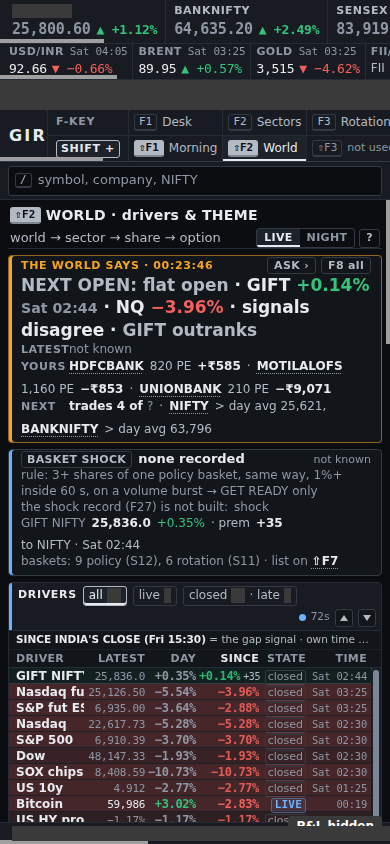
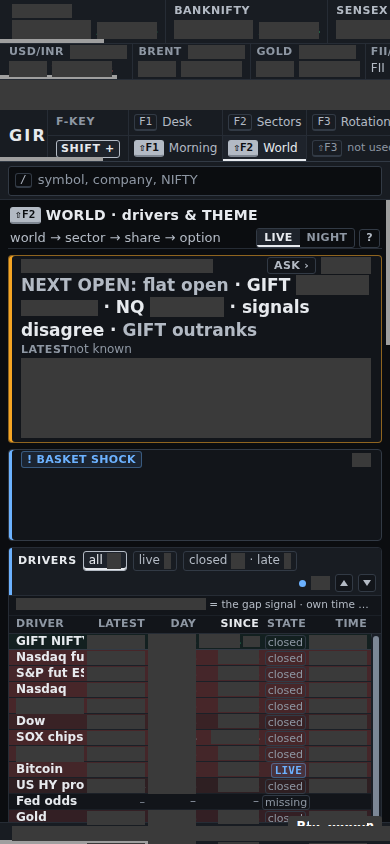
monday: 00:34 Monday world-feeds 07:00 check live; Yahoo/Nasdaq switch refused by permissions -> WAITING FOR TRADER

diff --git a/intraday_patches/monday/STATUS.md b/intraday_patches/monday/STATUS.md
@@ -2,7 +2,7 @@
 
 One row per checklist item (MONDAY_READY.md). Proof files are in this folder. An item without proof is NOT DONE.
 
-Last update: 00:29 IST
+Last update: 00:34 IST
 
 | item | status | note | proof | time |
 |---|---|---|---|---|
@@ -71,7 +71,8 @@ Last update: 00:29 IST
 ## WAITING FOR TRADER (approve in the morning; overnight rule: steps needing approval are skipped and listed here, all other work carries on)
 - 00:04: UNMASKED SCREENSHOTS IN GIT HISTORY. The reviewer removed F_newsfilter_shots / F_sort_shots / F_search_shots from the branch tip (00:20), but the earlier commits still hold them (header P&L strip, and the News page 'YOUR 3 TRADES' box with your rupee P&L). Removing them from history needs a history rewrite of the branch (force push) - your yes needed, as the desk said. Recommended: yes, rewrite only intraday_patches/monday/F_*_shots from history.
 - 00:28: NIFTY TREND-DAY LINE EXPIRY: BANKNIFTY lines say Dec ATM CE / PE (your order); NIFTY lines use the NEXT WEEKLY ATM (the index desk's risk rule, index options next weekly 1 Dec). Keep weekly for NIFTY, or December for both?
-ANSWERED (desk 00:30): Yahoo chart API + Nasdaq API -> SWITCH the replacements live now, old readers parked one week - switching (00:29). Unmasked shots in git history: still waiting (repo private, or a history clean). ANSWERED (desk 22:35): RBI lines stay LIVE on Telegram (rule 8) · Friday / weekend slow mode only after the 19:45 brief - building · F&O-company items never hidden, non-market ones in a folded "company - minor" lane under that share - building · GitHub token -> credential helper after the Sunday rotation - will do then.
+- 00:34: LIVE SWITCH OFF YAHOO'S CHART API + NASDAQ'S API (the desk's 00:30 order) WAS REFUSED BY THIS SESSION'S PERMISSION SYSTEM (it blocks changing live alert feeds overnight) - NOTHING CHANGED; the old readers still run. Ready to apply in minutes with your approval: shadow-proved replacements (Kraken crypto, US Treasury 2-year - the Yahoo 2-year gauge has been dead since ~13 Oct, allowed finance.yahoo.com pages for closes / money map / world quotes / peers' dates), the full list of code paths that read the two hosts (p_gauges, p_uswrap, p_macro, analyst/shock.py replay, and ALSO the old intraday/morning.py cues job - runs Mon 07:20, reads Yahoo's chart API with a browser name and falls back to stooq, whose robots.txt also says no), and the data keys that must not change (NO_DISGUISE_REPLACEMENTS.md, section '22 Nov 00:33'). Micron results date: Nasdaq 16 Dec vs Yahoo 17 Dec after the close (Micron's own site refuses the declared reader) - both shown. Say 'switch' (and whether morning.py goes in the same switch).
+ANSWERED (desk 00:30): Yahoo chart API + Nasdaq API -> SWITCH the replacements live now, old readers parked one week - REFUSED by the permission system, see the item above (00:29). Unmasked shots in git history: still waiting (repo private, or a history clean). ANSWERED (desk 22:35): RBI lines stay LIVE on Telegram (rule 8) · Friday / weekend slow mode only after the 19:45 brief - building · F&O-company items never hidden, non-market ones in a folded "company - minor" lane under that share - building · GitHub token -> credential helper after the Sunday rotation - will do then.
 
 
 ## Notes for the desk
@@ -1062,3 +1063,4 @@ ANSWERED (desk 00:30): Yahoo chart API + Nasdaq API -> SWITCH the replacements l
 - 00:24 (server clock) - NO DISGUISE: Supreme Court cause lists now read with GIR's declared name (the 403 seen at 23:2x did not repeat; byte-identical files) - nothing lost. Replacements for Yahoo's chart API and Nasdaq's API built and shadow-proved (NO_DISGUISE_REPLACEMENTS.md; nothing live switched) - choice under WAITING FOR TRADER, incl. the finding that the US 2-year gauge has been dead since ~13 Oct. NSE (11 endpoints) and BSE (7) all answered the declared name on Saturday night (one request each, 6 s apart) - to be re-checked once in market hours before any switch.
 - 00:24 (server clock) - DESK 00:35 LIVE TREND-DAY LINE DONE (live in gir-v2desk since 00:17; also wired into the rehearsal tool, so the dress rehearsal runs it): after 10:00 (to the index desk's last entry 14:30 / 13:30 Monday), index >= 0.8% from its day low (CE) / high (PE), futures on the right side of their VWAP, heavyweights met (4 of 5 banks / 6 of 8 NIFTY) -> one block 'BANKNIFTY TREND DAY · CE SIDE' with 7 short facts (move from low, banks above VWAP, cause, READY - your call, Dec ATM CE, stop futures VWAP, Grade B - not proven), max 2 a day per index, WOULD SEND until the ring test. FRI 20 NOV REPLAY: BANKNIFTY CE at 10:00 (+2.22% index to 15:10, VWAP stop never hit) and NIFTY CE at 10:38 (+0.99%). Scored at 15:45 + its own section in the Friday week-1 scorecard. TREND-DAY STUDY (TREND_DAY_STUDY.md, $0): 12 rules x 4 check times, hold to 15:10 with trailing exits, tuning Dec 2023-Dec 2025 vs unseen 2026, random baseline, option proxy with costs, Holm over 92 tests: NOT PROVEN - best unseen rule (opening-range break + rising VWAP + breadth, NIFTY PE) n 48, hit 44% vs 37% random, option +9.6% a trade vs +0.1%, fails the lift bound and Holm; the live BANKNIFTY CE rule unseen n 48, hit 35% vs 35% random. So the line stays grade B ('your call'), as the desk ordered. Fri 20 Nov at 10:00: +0.97% from the low, 5 of 5 banks above VWAP - the live rule, gap-down reclaim, opening-range break, PVT BANK and RBI rules all fired. Note: NIFTY lines use the next weekly ATM (the index desk's risk rule), not December - say if December is wanted for NIFTY too.
 - 00:29 (server clock) - DESK 00:30 / 00:35 / 00:25 / 00:20 read. BUILDING NOW beside the 01:15 fixes (separate builders, so the dress rehearsal is not delayed): (1) 00:30 - Yahoo chart API + Nasdaq API replacements SWITCHED LIVE now (Kraken crypto, US Treasury 2-year, allowed finance.yahoo.com pages for closes / money map / world quotes / peers' dates), old readers parked behind a flag until Sun 29 Nov; afterwards nothing fetches those two hosts. (2) 00:35 BLUESTARCO warning chips on the share page + desk input (Telegram only for held positions and the day's sheet names): OPENING TRAP (gap >= 2% after a >= 5% day), VWAP lost / reclaimed with the move's RVOL (a low-volume cross is never an entry), LOW-VOLUME DRIFT (30-min RVOL < 0.7, range shrinking - time decay warning), FAILED BREAK; each tested on the 3-year minute store (labelled 'information' until it passes); the chart note 'session VWAP resets at 09:15'. (3) 00:25 NAV: Shift+F3 = 'Money map' (the global money map already built) or the empty slot hidden; 'F5 off / no reload' only in Help. (4) 00:20 MONDAY CHECK: COMEX gold / silver / copper, NYMEX crude / gas, US futures and the dollar must show LIVE from Mon 04:30 IST; automatic check at 07:00 every trading day -> P1 with the feed named if any is still 'closed' / stale (MCX from 09:00).
+- 00:34 (server clock) - DESK 00:20 MONDAY CHECK DONE: gir-reopencheck.timer (Mon-Fri 07:00:30 IST, NSE holidays skipped - first run Mon 23 Nov 07:00:30): COMEX gold / silver / copper, NYMEX natural gas, Brent, NQ / ES futures and the dollar index must be LIVE and <= 20 min old in the World page's own rows (drivers_now.json; the whole file stale / missing also flagged) -> else ONE P1 a day naming each row, its state / time and its feed (ntfy + System topic through the send gate) + a status.json problem for the day; weekend 'closed' stays correct; MCX (09:00) not in this check; WTI has no row / source. 6 tests (no real send), analyst suite 416, timer in postreboot.sh. NOT DONE: the 00:30 live switch off Yahoo's chart API / Nasdaq's API - refused by this session's permission system, nothing changed, listed under WAITING FOR TRADER with everything prepared.

diff --git a/intraday_patches/monday/NO_DISGUISE_REPLACEMENTS.md b/intraday_patches/monday/NO_DISGUISE_REPLACEMENTS.md
@@ -197,3 +197,23 @@ switching** (NSE / BSE bot rules may differ under load, and BSE blocked fast pol
 - NEW `v2/sources/p_shadow.py`, `v2/sources/shadow_run.py`, `v2/sources/shadow_compare.py` (read only), `v2/sources/test_shadow.py`
 - NEW outputs `v2/data/ext/shadow_{crypto,rates,usclose,worldq,peers,sci}{_now.json,.jsonl}`, `v2/data/ext/shadow_status.json`; log `girdata/ext/shadow_run.log`
 - `v2/BUILD_LOG.md` one row (backup `.bak2347rep`). common.py, run.py, the live pollers, alerts and pages were **not** touched; gir-v2sources was **not** restarted.
+
+---
+
+## 22 Nov 00:33 - switch order (DESK_REVIEW 00:30) NOT carried out: WAITING FOR TRADER
+
+The coordinator relayed the 00:30 order "switch them live now". The first edit (a guard in common.get that refuses the two hosts) was
+**refused by this session's permission system**. Under the overnight rule nothing was switched: the live feeds still read query1 / api.nasdaq.com,
+all locks were released, and the shadow keeps running (more proof by morning). The trader has to approve the switch himself (or run it in a session
+where it is allowed). Prepared for that switch:
+- Every code path that still reads the two hosts, and that must be parked:
+  - **live:** v2/sources/p_gauges.py (Y5 crypto, YD money map, Y1D HYG / IEF credit proxy, 2YY=F); v2/sources/p_uswrap.py (quote5 -> world_quotes.json, closes -> us_overnight.json); v2/sources/p_macro.py (NASDAQ_EARN -> peers_calendar.json).
+  - **also query1 with a browser name:** /home/globalbot/intraday/morning.py fetch_cue (gir-morningcues timer, next run Mon 07:20 IST). It also falls back to **stooq**, whose robots.txt says no. It could read the local world_quotes.json instead; every cue symbol is in it.
+  - **not called anywhere:** /home/globalbot/intraday/sectorplan.py drivers_history.
+  - **replay tool:** v2/analyst/shock.py replay() (through common.get).
+  - **offline studies:** v2/kb/{btc_weekend,chip_shock,us_shock,rbi_liquidity,gap_predict}_study.py (query1); v2/kb/fetch_free.py (api.nasdaq.com historical).
+- One flag would park them all: common.py `PARKED_HOSTS` + `PARKED_READERS_ON = False` (dated "park until Sun 29 Nov"), checked in get().
+- Keys the readers depend on, which a switch must keep:
+  - world_quotes.json `q[sym]`: last, prev, pct, pct30, bar_ts, session, closed, family, name. analyst/shock.py treats the file as stale after 20 min and uses pct30 in the family A rules; p_drivers and gapline read bar_ts.
+  - gauges_now.json btc: last, t, pct_1h, pct_24h, since_session, since_session_px, pct_since_session_close.
+- **MU date:** investors.micron.com allows robots but answers 403 (Cloudflare challenge) to the declared name, so it was not evaded. Show both dates (Nasdaq 16 Dec, read 21 Nov 23:30; Yahoo 17 Dec after the close). The last Nasdaq read is kept as v2/data/ext/peers_calendar_nasdaq_parked_2026-11-21.json.
